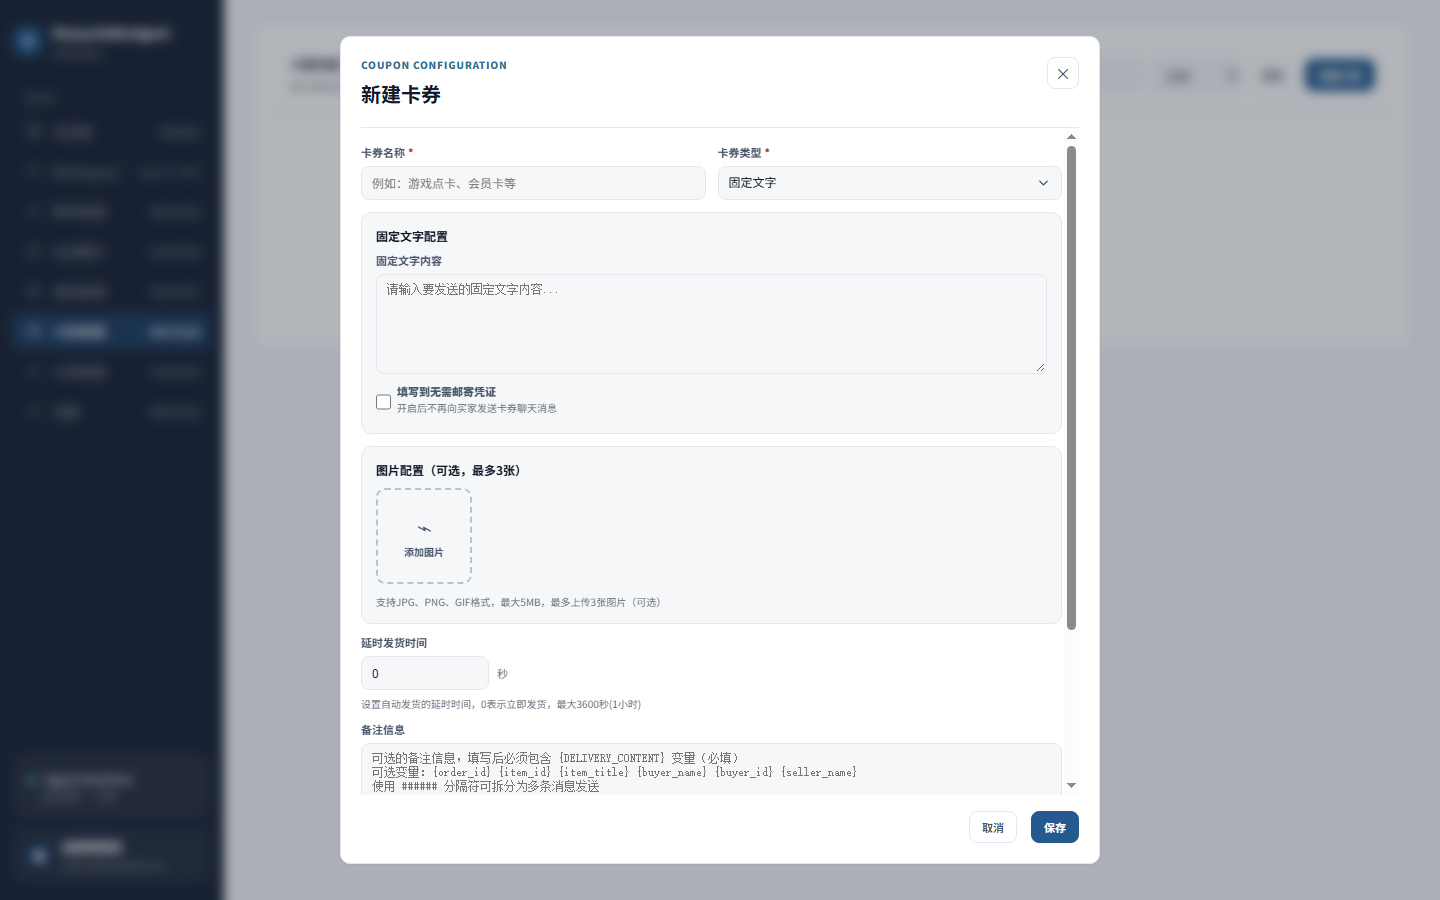
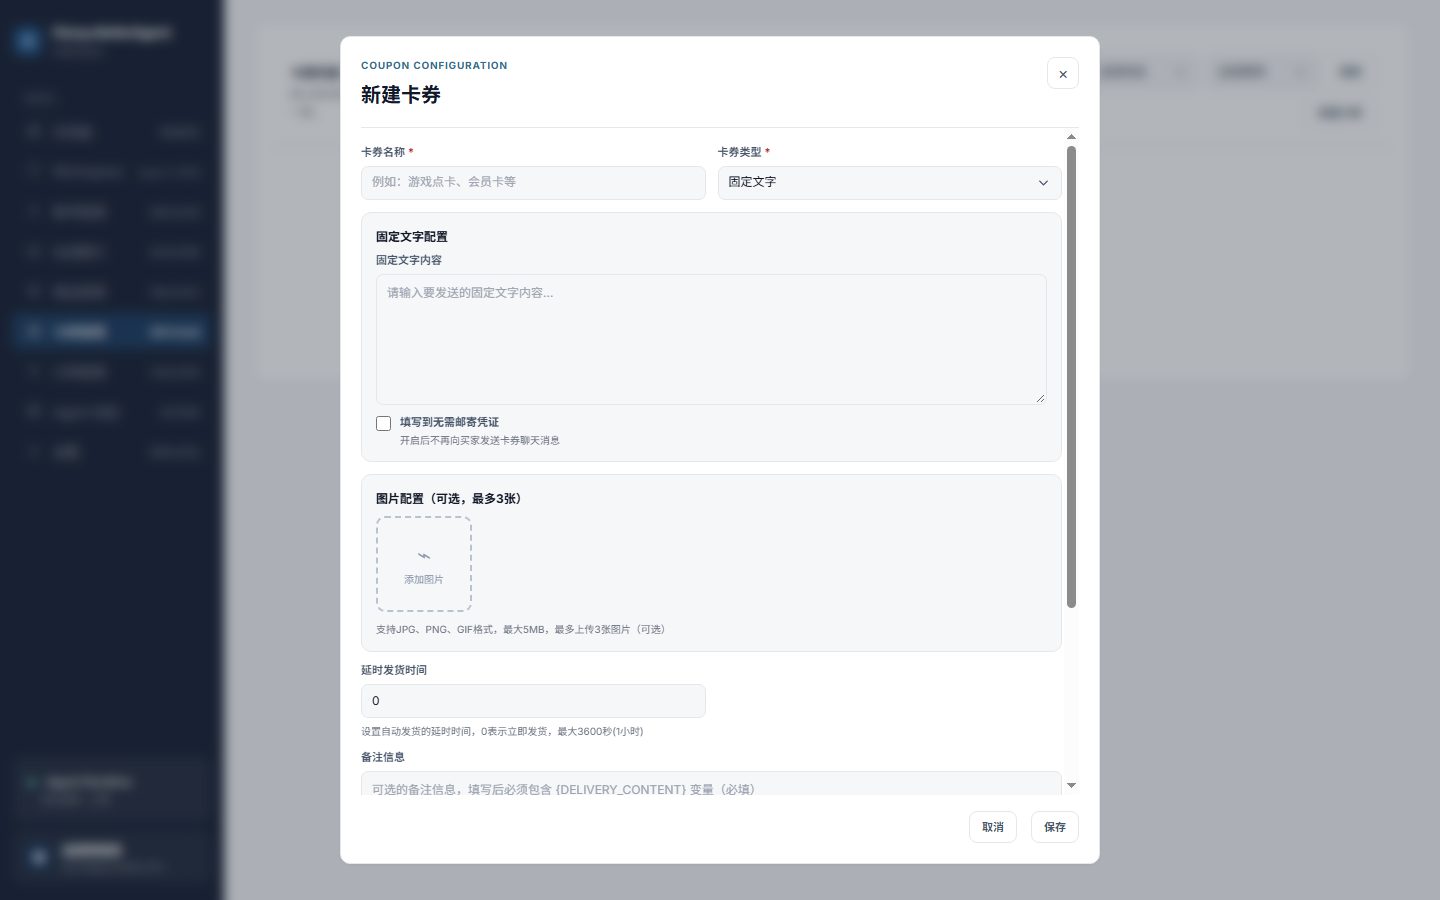
docs(控件复盘): 记录页面级修复与剩余证据缺口

diff --git a/docs/evidence/common-controls/common-controls-review-2026-09-21.md b/docs/evidence/common-controls/common-controls-review-2026-09-21.md
@@ -16,7 +16,8 @@
 - 合入提交：`fe9358c merge: fix shared search select controls`。
 - 共享控件证据：`docs/evidence/common-controls/shared-search-select-fix-v3/visual-diff.md`；已包含 `1440×900` 与 `390×844` 的基线、实现、差异热图和 DOM 样式指标。
 - SelectField Open preview 已在 `/controls` 实现；该静态菜单仅用于视觉审计，不进入业务实例，真实业务路由仍需继续做页面级复核。
-- 页面 CSS 隔离、Accounts/Coupons/Workspace 功能遗漏和真实业务路由截图仍为 `OPEN`。
+- 页面 CSS 隔离已合入并通过 selector 守门；Accounts `connectionStatus`、Coupons `status/stockAlert/分页`、Workspace server-side search 已合入并通过 Web 全量回归。
+- Coupons Chrome/CDP 全链路仍在“创建后启用”步骤失败，真实业务视觉截图与该失败根因复核仍为 `OPEN`；见 `page-functional-gaps-2026-09-21.md`。
 
 ## 2. 已确认的范围决策
 
@@ -101,15 +102,15 @@
 - 更新 `ControlsPreview`：补 Open preview、移动端 Search + 双 Select、默认/focus/disabled/open/selected 状态。
 - 执行 Chrome/CDP `1440×900`、`390×844` 截图、DOM computed style、像素 diff；Phase 1 未通过不得进入页面级修复。
 
-### Phase 2 — Page CSS isolation and exceptions
+### Phase 2 — Page CSS isolation and exceptions（已完成，待真实路由视觉复核）
 
-- 扫描并清理 Auth/Workspace/Messages/Settings/Products/Coupons 等页面 CSS 对 shared token 的命中。
+- 扫描并清理 Auth/Workspace/Messages/Settings/Products/Coupons/Agent Dynamics 等页面 CSS 对 shared token 的命中。
 - 建立 exception allowlist：Messages composer、Workspace Run composer、checkbox/file/QR/password visibility 等明确例外。
-- 清理死 CSS selector，并把 Tabs、menus、multi-select、session selector 从 SelectField 清单中单列。
+- 清理死 CSS selector，并把 Tabs、menus、multi-select、session selector 从 SelectField 清单中单列；selector 守门见 `page-css-isolation-2026-09-21.md`。
 
-### Phase 3 — Functional omissions
+### Phase 3 — Functional omissions（主体修复已完成，Coupons E2E 开放）
 
-- Accounts `connectionStatus`；Coupons `status`、`stockAlert`、分页；Orders sort UI/schema；Workspace server-side search。
+- Accounts `connectionStatus`；Coupons `status`、`stockAlert`、分页；Workspace server-side search 已合入；Orders sort UI/schema 仍按用户范围决策单列，不在本次筛选/搜索切片中擅自扩展。
 - 保留 Orders 单一聚合状态下拉，不扩展为四状态下拉。
 - 不在本轮统一 Dashboard、排序、分页、Tabs、菜单等普通按钮样式；只保证相关功能和证据不再被误报为已统一。
 
@@ -124,5 +125,5 @@
 - 共享 Search/Select/Input/TextArea/Button/PlaceholderCell 的 token 与设计稿逐项一致，Select open 视觉有真实证据。
 - 页面 CSS 不再直接覆盖共享控件 token；任何例外均在 allowlist 中。
 - expected-control manifest 与实际 JSX/API schema 一致，不能只扫描现存控件。
-- 所有 P0/P1 项均有修复提交、测试命令和浏览器截图证据；`SellerAgent/` 保持零 diff。
+- 已修复项均有提交、测试命令和证据文档；Coupons 启用步骤 E2E 失败、真实业务路由双 viewport 视觉复核和全局壳层旧文档清理仍未关闭；`SellerAgent/` 保持零 diff。
 

diff --git a/docs/agent-worktree-registry.md b/docs/agent-worktree-registry.md
@@ -93,7 +93,7 @@
 | `root` | `common-controls` | `codex/common-controls` | `F:\ChenHai\Project\XianYuAgent-common-controls` | Codex `/root` | `2026-09-21 00:00:00 +08:00` | `MERGED` | `8ccd72d` | `-` | 已快进合入 `master`；共享 Search/Select/Input/TextArea/Button/PlaceholderCell、全局迁移、专有设计稿视觉证据与验证已进入主线；排除在线聊天 composer 与 SellerAgent |
 | `root/fix_shared_search_select` | `shared-controls-search-select-fix` | `codex/shared-controls-search-select-fix` | `F:\ChenHai\Project\XianYuAgent-shared-controls-search-select-fix` | Codex `/root` delegated agent | `2026-09-21 23:05:00 +08:00` | `MERGED` | `60080fb` / `fe9358c` | `-` | 共享 SearchField/SelectField 与 controls Open preview 已合入主线；19 tests、typecheck、build、diff-check 与 Chrome/CDP 双 viewport 证据通过；业务页面、SellerAgent 不改 |
 | `root/fix_page_style_isolation` | `page-style-isolation` | `codex/page-style-isolation` | `F:\ChenHai\Project\XianYuAgent-page-style-isolation` | Codex `/root` delegated agent | `2026-09-21 23:10:00 +08:00` | `MERGED` | `f4f4ea0` / `f50682a` | `-` | Auth/Accounts/Products/Coupons/Messages/Workspace/Settings/Agent Dynamics 页面级 shared token 覆盖已清理；selector 守门测试与证据文档已合入；保留两处 composer 特调；SellerAgent 零 diff |
-| `root/fix_page_function_gaps` | `page-function-gaps` | `codex/page-function-gaps` | `F:\ChenHai\Project\XianYuAgent-page-function-gaps` | Codex `/root` delegated agent | `2026-09-21 22:55:11 +08:00` | `READY_FOR_REVIEW` | `-` | `-` | 已修复 Accounts connectionStatus、Coupons status/stockAlert/分页入口、Workspace 搜索词传参；Web typecheck、170 项 Vitest、Web build、Accounts/Workspace Chrome CDP E2E 通过；Coupons Chrome E2E 在既有 toggle 启用断言处失败；不改 Workspace composer 与 SellerAgent |
+| `root/fix_page_function_gaps` | `page-function-gaps` | `codex/page-function-gaps` | `F:\ChenHai\Project\XianYuAgent-page-function-gaps` | Codex `/root` delegated agent | `2026-09-21 23:14:00 +08:00` | `MERGED` | `7c3d55a` / `d7925c5` | `-` | 已修复 Accounts connectionStatus、Coupons status/stockAlert/分页入口、Workspace 搜索词传参；主线 56 files/172 tests、typecheck、build、Accounts/Workspace Chrome CDP E2E 通过；Coupons Chrome E2E 仍在既有 toggle 启用断言处失败，已登记为开放复核项；不改 Workspace composer 与 SellerAgent |
 
 | `root/settings_persistence_e2e` | `settings-persistence-e2e` | `codex/settings-persistence-e2e` | `F:\ChenHai\Project\XianYuAgent-settings-persistence` | Codex `/root` delegated agent | `2026-09-21 00:00:00 +08:00` | `READY_FOR_REVIEW` | `-` | `-` | 补强 OpenAI 设置保存后 Agent 实际消费、PostgreSQL 重启复读与 UI 主动测试后状态回显；新增 API Key 等长首尾脱敏回显；不改 master。 |
 

diff --git a/docs/evidence/common-controls/page-functional-gaps-2026-09-21.md b/docs/evidence/common-controls/page-functional-gaps-2026-09-21.md
@@ -1,0 +1,29 @@
+# 页面级功能遗漏修复证据（2026-09-21）
+
+## 范围
+
+本切片在共享 SearchField/SelectField 已合入并通过 Phase 1 门禁后执行，处理复盘文档中登记的页面级功能遗漏；不改 `SellerAgent/`，不恢复全局搜索，不拆 Orders 聚合状态下拉，不替换 Workspace Run composer，也不统一普通分页/Tabs/菜单按钮为 shared Button。
+
+## 已修复
+
+| 页面 | 修复 | 证据 |
+| --- | --- | --- |
+| Accounts | `AccountToolbar` 增加 `connectionStatus` 共享下拉，并接入 controller filter 更新 | `apps/web/src/features/accounts/components/AccountToolbar.tsx`、`AccountsPage.tsx`、`AccountToolbar.test.ts` |
+| Coupons | 工具栏增加 `status`、`stockAlert` 两个共享下拉，接入 query filter；表格增加页码、上一页/下一页和总数状态 | `CouponToolbar.tsx`、`CouponsPage.tsx`、`CouponBatchTable.tsx`、对应测试 |
+| Workspace | 搜索状态移入 controller，按 220ms debounce 将搜索词传入 `listSessions(accountId, search)`；保留 Run composer 特调 textarea | `workspace/controller.ts`、`WorkspacePage.tsx`、`workspace/controller.test.ts`、`workspace/api.test.ts` |
+
+## 验证
+
+- `npm --workspace apps/web run test -- --run`：56 个测试文件 / 172 个测试通过。
+- `npm --workspace apps/web run typecheck`：通过。
+- `npm --workspace apps/web run build`：通过；仅保留既有 chunk >500k warning。
+- `npm --workspace apps/web run test:e2e:chrome:accounts`：通过（切片 worktree 证据）。
+- `npm --workspace apps/web run test:e2e:chrome:workspace`：通过（真实 PostgreSQL/Chrome/CDP，切片 worktree 证据）。
+- `npm --workspace apps/web run test:e2e:chrome:coupons`：**开放复核**；在既有 `created coupon enable button missing` 断言处失败，失败发生于创建/编辑/复制/禁用之后的启用步骤，尚未证明由本切片筛选/分页逻辑直接引起。
+- Coupons E2E 在失败前已生成真实路由截图：`docs/evidence/stage5/S4-VS3/screenshots/coupons-desktop-1440x900.png`、`coupons-create-modal-desktop-1440x900.png`、`coupons-create-modal-mobile-390x844.png`；截图中可见新增状态/库存下拉与分页区域。
+- `git diff --check`：通过。
+- `git diff -- SellerAgent`：无输出，确认 `SellerAgent/` 零 diff。
+
+## 当前结论
+
+Accounts、Coupons 筛选/分页和 Workspace server-side search 已完成代码与单元/构建验证；Coupons 全链路 E2E 的启用步骤仍为 `OPEN`，因此 common-controls checklist 继续保持 `FAIL / OPEN`，不能宣称本轮整体通过。

diff --git a/docs/evidence/common-controls/checklist.md b/docs/evidence/common-controls/checklist.md
@@ -70,9 +70,9 @@
 ## 剩余审计清单
 
 1. 共享 SearchField/SelectField 尚未完成按专有设计稿的 1:1 视觉复核；Select 展开项的真实截图、键盘行为和跨浏览器边界仍缺失。
-2. 页面 CSS 对 shared inner input/select/textarea 的覆盖尚未全部隔离；至少 Workspace、Messages、Auth、Settings、Products、Coupons 仍需 selector 级审计。
-3. Accounts/Coupons 的 schema→UI 映射仍不完整：`connectionStatus`、`status`、`stockAlert` 和 Coupons 分页尚未关闭。
-4. Workspace 搜索词尚未从 controller 传入 API；Workspace Run composer 例外已批准但尚未写入统一 allowlist。
+2. 页面 CSS 对 shared inner input/select/textarea 的 selector 覆盖已隔离并有守门测试；真实业务路由视觉复核仍未关闭。
+3. Accounts/Coupons 的 schema→UI 映射已补齐 `connectionStatus`、`status`、`stockAlert` 和 Coupons 分页；Coupons Chrome/CDP 的启用步骤仍失败，保持 OPEN。
+4. Workspace 搜索词已从 controller 传入 API 并补 220ms debounce；Workspace Run composer 例外继续保留。
 5. Auth/Settings/Accounts/Products/Coupons/Orders/Agent Dynamics/Workspace 尚未全部完成真实路由固定 viewport 截图与视觉 diff；`/controls` 预览页不能替代页面证据。
 6. Dashboard、表格排序、分页、Tabs、菜单等普通/领域按钮明确不纳入本轮 `Button` 统一，但相关自定义语义仍需单列登记，避免被误判为 SelectField 或 shared Button 已覆盖。
 7. `SelectField` 的全局使用约束继续由 `apps/web/src/shared/ui/select-usage.test.ts` 维护；本轮仍不得以现存 native select 扫描结果替代 expected-control manifest。
